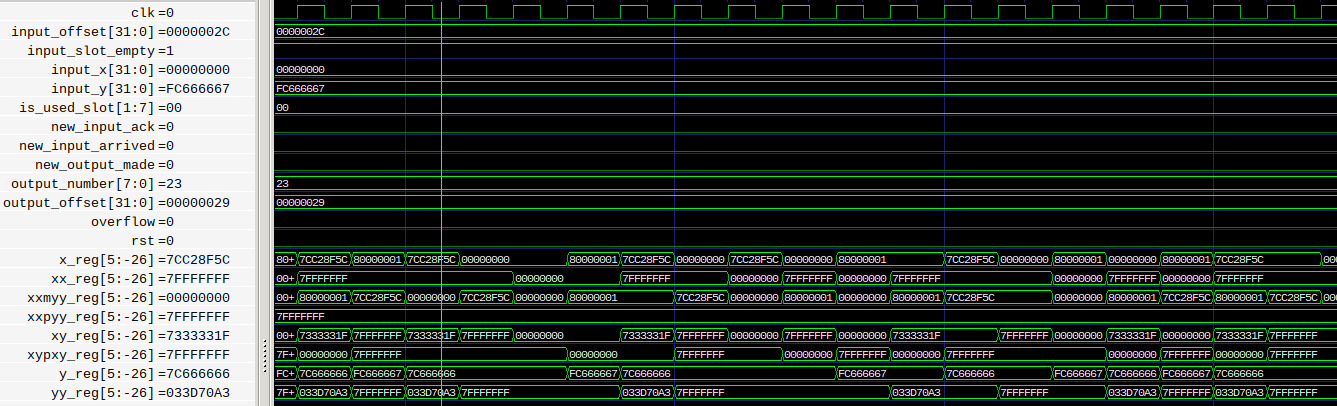
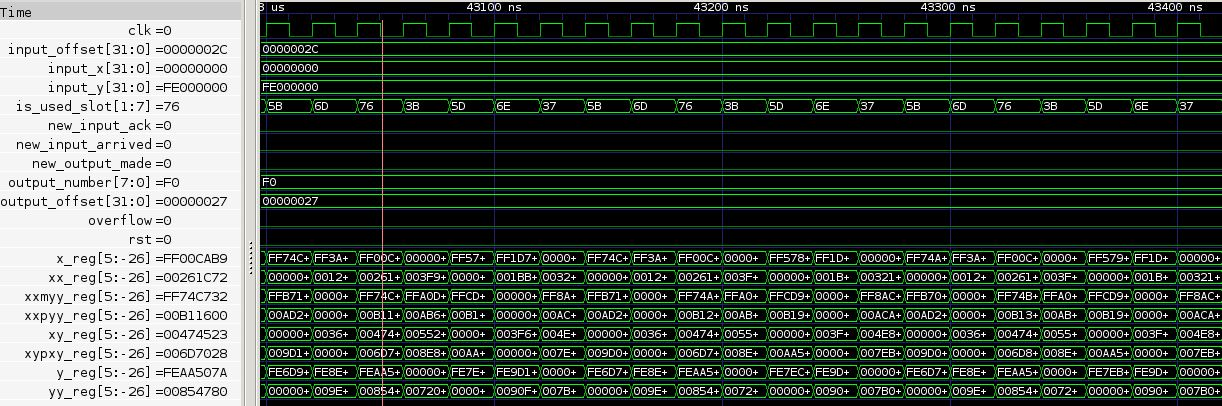
New data exercising full iterations (3.7x speedup)

diff --git a/README.md b/README.md
@@ -31,14 +31,14 @@ Running
 
     make test
 
-...from inside the "GHDL" folder, the code compares 45 outputs from
+...from inside the "GHDL" folder, the code compares 89 outputs from
 the C version of the algorithm, with those from the HW version.
 They match; and in addition, it reports:
 
-    tb/mandel_tb.vhdl:172:5:@22170ns:(assertion note): Successful end of test
+    tb/mandel_tb.vhdl:216:5:@644010ns:(assertion note): Successful end of test
 
-That is, the computation of these 45 points on the complex plane of the
-Mandelbrot set, took 22.17 microseconds.
+That is, the computation of these 89 points on the complex plane of the
+Mandelbrot set, took 644.01 microseconds.
 
 <img src="contrib/naive.jpg" alt="The naive, SW-like implementation"><BR>
 <em>The naive, SW-like implementation</em>
@@ -53,25 +53,31 @@ Basically, this is how our CPUs work - instruction by instruction.
 But in the ["GHDL simulation pipelined" branch](https://github.com/ttsiodras/MandelbrotInVHDL/tree/GHDL_simulation_pipelined/),
 things change - when we do `make test` here, we see this:
 
-    Received 45 / 45
-    tb/mandel_tb.vhdl:164:9:@7780ns:(assertion note): Successful end of test
+    [TB] Received test result of 240, passing test 89 / 89
+    tb/mandel_tb.vhdl:178:9:@177060ns:(assertion note): Successful end of test
 
-That is, instead of 22.17us, the new circuit takes 7.78us **to do the same work**.
+That is, instead of 644.01us, the new circuit takes 177.06us **to do the same work**.
+
+In other words, it is 3.63 times faster. Why?
 
 <img src="contrib/pipelined.jpg" alt="The pipelined implementation"><BR>
 <em>The pipelined implementation</em>
 
-No "empty space" anymore :-)
+Because there is no "empty space" anymore :-)
+
+We are not like a CPU anymore - we are a proud, pipelined HW circuit.
 
 Basically, the 3 multipliers involved in the Mandelbrot computation are almost
 constantly kept busy - they never stop unless the pipeline is empty. As long as
 we keep feeding the engine with inputs, they are doing work on every cycle - as
-opposed to the serial version, that only uses them in the 2 stages.
+opposed to the serial version, that only uses them in the first two stages.
+Same for the adders that follow - etc.
 
-This was much harder than I expected... I am very happy I finally figured it out.
+To be honest, writing this code was much harder than I expected... I am very happy
+I finally figured it out.
 
 And I now fully appreciate [GHDL](https://github.com/ghdl/ghdl); I couldn't have
-fixed my code without it. The graphical representations alone (shown above
+fixed my VHDL code without it. The graphical representations alone (shown above
 via `make waves") are not enough when you track down "race conditions" in HW signals.
 
 OK, next step: run this in the Spartan3, and witness the 3x speedup with my
